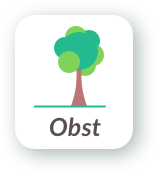
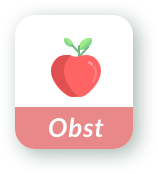
add muiTheme file for my stylings and changed old order, add some text but not styled

Changed region(s): [[0.0759, 0.1437, 0.8608, 0.8621]]

diff --git a/frontend-cherrypicker/src/components/MainContent/ShapeContent.js b/frontend-cherrypicker/src/components/MainContent/ShapeContent.js
@@ -1,31 +1,53 @@
 import React from "react";
 import Grid from "@material-ui/core/Grid";
 import {makeStyles} from "@material-ui/core/styles";
+import Typography from "@material-ui/core/Typography";
+import myTheme from "../../styling/muiTheme";
 
-const styles = makeStyles((theme) => ({
+
+const useStyles = makeStyles((theme) => ({
     fruitButton: {
         backgroundRepeat: 'no-repeat',
         backgroundImage: 'url("images/obst.png")',
-        minHeight: '60vh',
-        minWidth: '70vw',
-        marginTop: '260px',
         marginLeft: '50px',
+        marginTop: '-150px',
+    },
 
+    Headline: {
+        color: myTheme.palette.primary.contrastText,
+        fontSize: '34px',
+        fontFamily: 'Lato, sans-serif',
+        textAlign: 'left',
+        marginLeft: '60px',
+    },
+
+    SubHeadline: {
+        color: myTheme.palette.secondary.contrastText,
+        textAlign: 'left',
+        marginLeft: '60px',
+    },
+
+    textBlock: {
     }
+
 }));
 
 export default function ShapeContent() {
-    const classes = styles();
+    const classes = useStyles();
 
     return (
 
 <>
-        <Grid
+           <h1 align="center" className={classes.Headline}>GEMEINSAM HABEN WIR MEHR!</h1>
+           <p className={classes.SubHeadline}>Teilt euer überschüssiges, selbstangebautest Obst und Gemüse ganz einfach mit euren Nachbarn oder zukünftign Freunden.</p>
+
+            <Grid
             container
             className={classes.fruitButton}
-        >
-        </Grid>
+            />
 
-    </>
+
+</>
+
     )
 }

diff --git a/frontend-cherrypicker/src/App.js b/frontend-cherrypicker/src/App.js
@@ -3,25 +3,9 @@ import './App.css';
 import {BrowserRouter as Router} from 'react-router-dom';
 import Header from "./components/Header/Header";
 import MainContent from "./components/MainContent/MainContent";
-import {ThemeProvider, createMuiTheme} from "@material-ui/core";
+
 
 function App() {
-
-
-    // color palette for header
-    const headerPalette = createMuiTheme ({
-
-        palette: {
-            primary: {
-                main: '#FFFFFF',
-            },
-            secondary: {
-                main: '#373C41',
-            },
-        },
-    });
-
-
 
 
   return (
@@ -29,11 +13,9 @@ function App() {
 
       <Router>
 
-          <ThemeProvider theme={headerPalette}>
         <Header/>
-          </ThemeProvider>
-
         <MainContent/>
+
       </Router>
 
     </div>

diff --git a/frontend-cherrypicker/src/components/MainContent/MainContent.js b/frontend-cherrypicker/src/components/MainContent/MainContent.js
@@ -4,7 +4,8 @@ import ShapeContent from "./ShapeContent";
 import Grid from "@material-ui/core/Grid";
 import { makeStyles } from '@material-ui/core/styles';
 
-const styles = makeStyles((theme) => ({
+
+const useStyles = makeStyles((theme) => ({
 
     shapeContainer: {
         backgroundRepeat: 'no-repeat',
@@ -18,7 +19,7 @@ const styles = makeStyles((theme) => ({
 }));
 
 export default function MainContent() {
-    const classes = styles();
+    const classes = useStyles();
 
     return (
 

diff --git a/frontend-cherrypicker/public/index.html b/frontend-cherrypicker/public/index.html
@@ -10,6 +10,10 @@
       content="Web site created using create-react-app"
     />
     <link rel="apple-touch-icon" href="%PUBLIC_URL%/logo192.png" />
+
+    <!-- FONTS -->
+    <link href="https://fonts.googleapis.com/css2?family=Lato:wght@900&display=swap" rel="stylesheet">
+
     <!--
       manifest.json provides metadata used when your web app is installed on a
       user's mobile device or desktop. See https://developers.google.com/web/fundamentals/web-app-manifest/

diff --git a/frontend-cherrypicker/src/index.js b/frontend-cherrypicker/src/index.js
@@ -3,10 +3,14 @@ import ReactDOM from 'react-dom';
 import './index.css';
 import App from './App';
 import * as serviceWorker from './serviceWorker';
+import {MuiThemeProvider} from "@material-ui/core";
+import myTheme from "./styling/muiTheme";
 
 ReactDOM.render(
   <React.StrictMode>
+      <MuiThemeProvider theme={myTheme}>
     <App />
+      </MuiThemeProvider>
   </React.StrictMode>,
   document.getElementById('root')
 );

diff --git a/frontend-cherrypicker/src/styling/muiTheme.js b/frontend-cherrypicker/src/styling/muiTheme.js
@@ -1,0 +1,19 @@
+import createMuiTheme from "@material-ui/core/styles/createMuiTheme";
+
+const myTheme = createMuiTheme ({
+
+    // color palette for header
+    palette: {
+        primary: {
+            main: '#FFFFFF',
+            contrastText: '#3A4B40',
+        },
+        secondary: {
+            main: '#373C41',
+            contrastText: '#4C8360',
+        },
+    },
+
+});
+
+export default myTheme;
